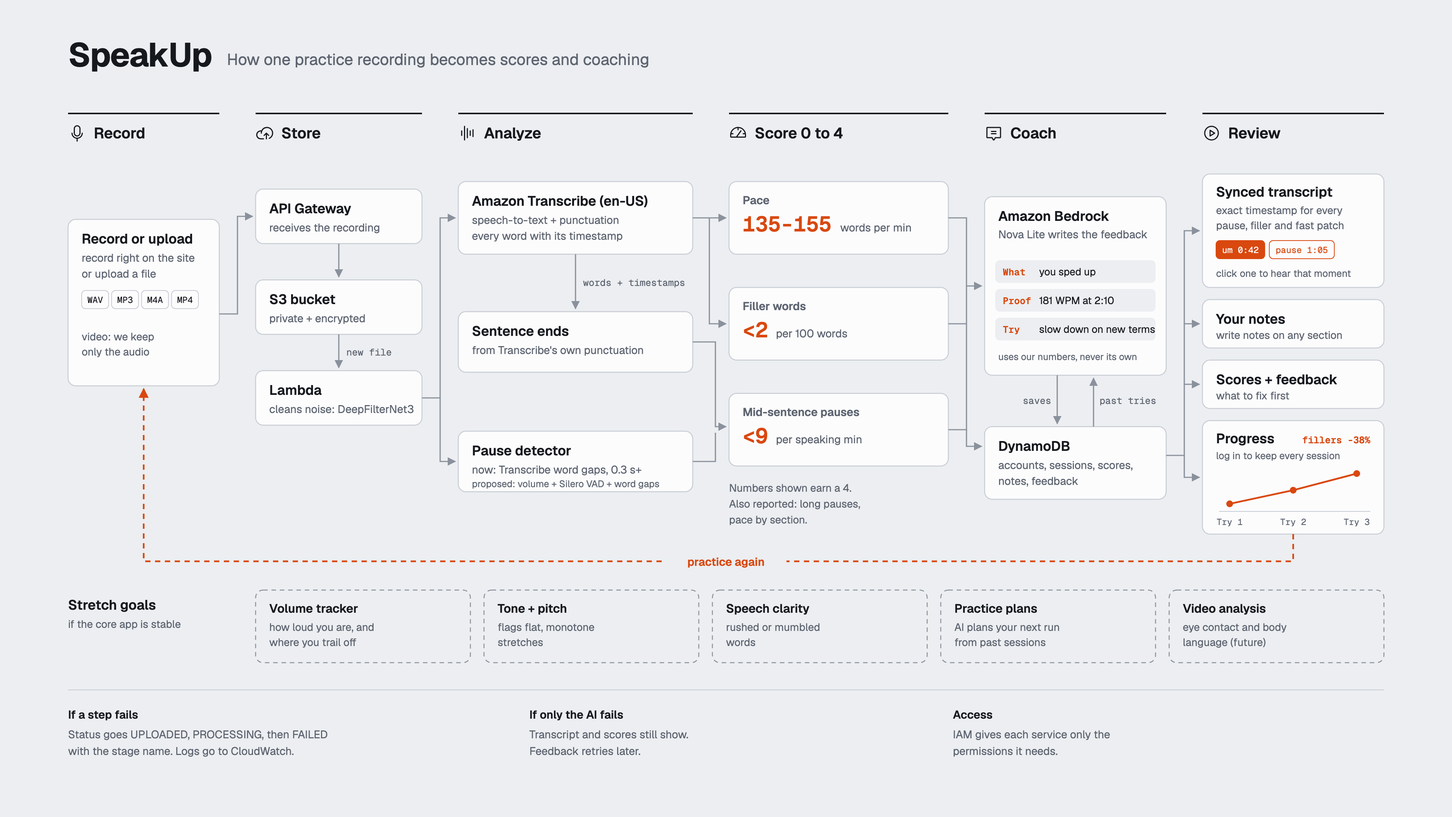
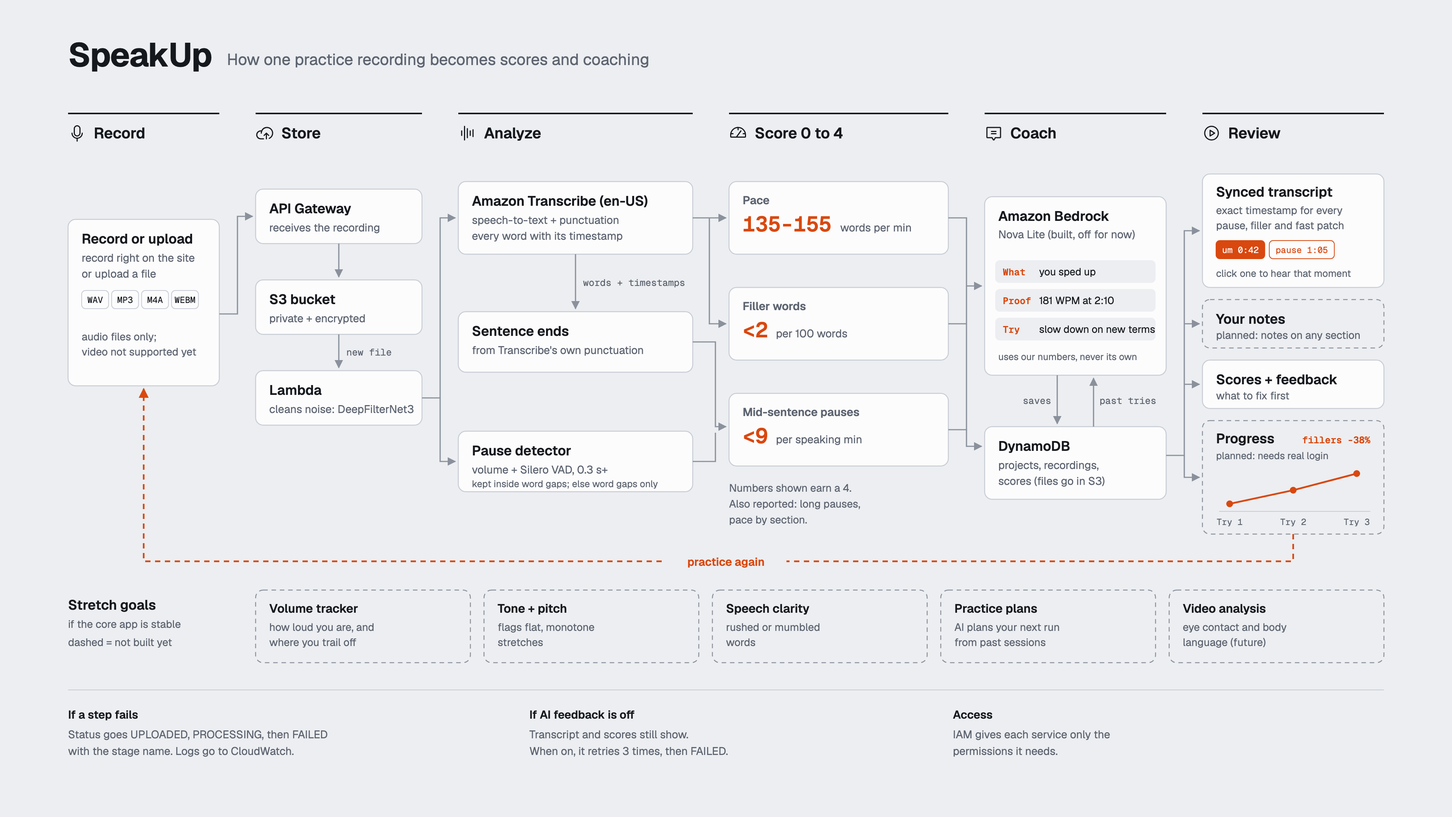
docs(flowchart): match the pipeline that is on main now
- Pause detector: volume + Silero VAD inside word gaps, word-gap fallback
- Bedrock: built but off on the dev stack; failure note matches the retries
- Upload formats: WAV, MP3, M4A, WebM (no video yet)
- DynamoDB holds projects, recordings and scores; files live in S3
- Notes and logged-in progress marked as planned (dashed)

diff --git a/docs/flowchart/speakup_flowchart.html b/docs/flowchart/speakup_flowchart.html
@@ -3,7 +3,7 @@
 <link href="https://fonts.googleapis.com/css2?family=Geist:wght@400;600;700&family=Geist+Mono:wght@400;600&display=swap" rel="stylesheet">
 <style>html,body{margin:0;background:#eceef1} svg{display:block;width:100%;height:auto}</style>
 </head><body><svg xmlns="http://www.w3.org/2000/svg" viewBox="0 0 1920 1080" role="img"
- aria-label="SpeakUp system: a recording is recorded on the site or uploaded through API Gateway into S3, Lambda cleans noise with DeepFilterNet3 and sends audio to Amazon Transcribe (words, timestamps and punctuation) and a pause detector (Transcribe word gaps now, volume plus Silero VAD proposed), three metrics are scored 0 to 4, Amazon Bedrock (Amazon Nova Lite) writes feedback, results are saved in DynamoDB and shown as a synced transcript, scores and progress, the student can add notes and track progress after logging in, and practices again. Stretch goals: volume, tone, clarity, practice plans, video.">
+ aria-label="SpeakUp system: a recording is recorded on the site or uploaded through API Gateway into S3, Lambda cleans noise with DeepFilterNet3 and sends audio to Amazon Transcribe (words, timestamps and punctuation) and a pause detector (volume plus Silero VAD inside transcript word gaps, falling back to word gaps), three metrics are scored 0 to 4, Amazon Bedrock (Amazon Nova Lite) writes feedback when it is turned on, results are saved in DynamoDB and S3 and shown as a synced transcript, scores and progress, notes and logged-in progress are planned, and the student practices again. Stretch goals: volume, tone, clarity, practice plans, video.">
 <defs>
   <marker id="ah" viewBox="0 0 10 10" refX="9" refY="5" markerWidth="7" markerHeight="7" orient="auto-start-reverse"><path d="M0,0 L10,5 L0,10 z" fill="#8a919c"/></marker>
   <marker id="ah-accent" viewBox="0 0 10 10" refX="9" refY="5" markerWidth="6" markerHeight="6" orient="auto-start-reverse"><path d="M0,0 L10,5 L0,10 z" fill="#d9480f"/></marker>
@@ -11,5 +11,5 @@
 <rect width="1920" height="1080" fill="#eceef1"/>
 <text x="90" y="88" font-family="Geist" font-size="44" font-weight="700" fill="#15181d" letter-spacing="-1">SpeakUp</text>
 <text x="300" y="86" font-family="Geist" font-size="21" fill="#5d6470">How one practice recording becomes scores and coaching</text>
-<line x1="90" y1="150" x2="290" y2="150" stroke="#15181d" stroke-width="2"/><svg x="90" y="164" width="24" height="24" viewBox="0 0 256 256" fill="#15181d"><path d="M128,176a48.05,48.05,0,0,0,48-48V64a48,48,0,0,0-96,0v64A48.05,48.05,0,0,0,128,176ZM96,64a32,32,0,0,1,64,0v64a32,32,0,0,1-64,0Zm40,143.6V240a8,8,0,0,1-16,0V207.6A80.11,80.11,0,0,1,48,128a8,8,0,0,1,16,0,64,64,0,0,0,128,0,8,8,0,0,1,16,0A80.11,80.11,0,0,1,136,207.6Z"/></svg><text x="124" y="183" font-family="Geist" font-size="20" font-weight="600" fill="#15181d" text-anchor="start">Record</text><line x1="338" y1="150" x2="558" y2="150" stroke="#15181d" stroke-width="2"/><svg x="338" y="164" width="24" height="24" viewBox="0 0 256 256" fill="#15181d"><path d="M178.34,165.66,160,147.31V208a8,8,0,0,1-16,0V147.31l-18.34,18.35a8,8,0,0,1-11.32-11.32l32-32a8,8,0,0,1,11.32,0l32,32a8,8,0,0,1-11.32,11.32ZM160,40A88.08,88.08,0,0,0,81.29,88.68,64,64,0,1,0,72,216h40a8,8,0,0,0,0-16H72a48,48,0,0,1,0-96c1.1,0,2.2,0,3.29.12A88,88,0,0,0,72,128a8,8,0,0,0,16,0,72,72,0,1,1,100.8,66,8,8,0,0,0,3.2,15.34,7.9,7.9,0,0,0,3.2-.68A88,88,0,0,0,160,40Z"/></svg><text x="372" y="183" font-family="Geist" font-size="20" font-weight="600" fill="#15181d" text-anchor="start">Store</text><line x1="606" y1="150" x2="916" y2="150" stroke="#15181d" stroke-width="2"/><svg x="606" y="164" width="24" height="24" viewBox="0 0 256 256" fill="#15181d"><path d="M56,96v64a8,8,0,0,1-16,0V96a8,8,0,0,1,16,0ZM88,24a8,8,0,0,0-8,8V224a8,8,0,0,0,16,0V32A8,8,0,0,0,88,24Zm40,32a8,8,0,0,0-8,8V192a8,8,0,0,0,16,0V64A8,8,0,0,0,128,56Zm40,32a8,8,0,0,0-8,8v64a8,8,0,0,0,16,0V96A8,8,0,0,0,168,88Zm40-16a8,8,0,0,0-8,8v96a8,8,0,0,0,16,0V80A8,8,0,0,0,208,72Z"/></svg><text x="640" y="183" font-family="Geist" font-size="20" font-weight="600" fill="#15181d" text-anchor="start">Analyze</text><line x1="964" y1="150" x2="1254" y2="150" stroke="#15181d" stroke-width="2"/><svg x="964" y="164" width="24" height="24" viewBox="0 0 256 256" fill="#15181d"><path d="M207.06,72.67A111.24,111.24,0,0,0,128,40h-.4C66.07,40.21,16,91,16,153.13V176a16,16,0,0,0,16,16H224a16,16,0,0,0,16-16V152A111.25,111.25,0,0,0,207.06,72.67ZM224,176H119.71l54.76-75.3a8,8,0,0,0-12.94-9.42L99.92,176H32V153.13c0-3.08.15-6.12.43-9.13H56a8,8,0,0,0,0-16H35.27c10.32-38.86,44-68.24,84.73-71.66V80a8,8,0,0,0,16,0V56.33A96.14,96.14,0,0,1,221,128H200a8,8,0,0,0,0,16h23.67c.21,2.65.33,5.31.33,8Z"/></svg><text x="998" y="183" font-family="Geist" font-size="20" font-weight="600" fill="#15181d" text-anchor="start">Score 0 to 4</text><line x1="1302" y1="150" x2="1542" y2="150" stroke="#15181d" stroke-width="2"/><svg x="1302" y="164" width="24" height="24" viewBox="0 0 256 256" fill="#15181d"><path d="M88,104a8,8,0,0,1,8-8h64a8,8,0,0,1,0,16H96A8,8,0,0,1,88,104Zm8,40h64a8,8,0,0,0,0-16H96a8,8,0,0,0,0,16ZM232,56V184a16,16,0,0,1-16,16H155.57l-13.68,23.94a16,16,0,0,1-27.78,0L100.43,200H40a16,16,0,0,1-16-16V56A16,16,0,0,1,40,40H216A16,16,0,0,1,232,56Zm-16,0H40V184h65.07a8,8,0,0,1,7,4l16,28,16-28a8,8,0,0,1,7-4H216Z"/></svg><text x="1336" y="183" font-family="Geist" font-size="20" font-weight="600" fill="#15181d" text-anchor="start">Coach</text><line x1="1590" y1="150" x2="1830" y2="150" stroke="#15181d" stroke-width="2"/><svg x="1590" y="164" width="24" height="24" viewBox="0 0 256 256" fill="#15181d"><path d="M128,24A104,104,0,1,0,232,128,104.11,104.11,0,0,0,128,24Zm0,192a88,88,0,1,1,88-88A88.1,88.1,0,0,1,128,216Zm48.24-94.78-64-40A8,8,0,0,0,100,88v80a8,8,0,0,0,12.24,6.78l64-40a8,8,0,0,0,0-13.56ZM116,153.57V102.43L156.91,128Z"/></svg><text x="1624" y="183" font-family="Geist" font-size="20" font-weight="600" fill="#15181d" text-anchor="start">Review</text><rect x="90" y="290" width="200" height="220" rx="10" fill="#fcfcfd" stroke="#c7ccd4" stroke-width="1.25"/><text x="108" y="322" font-family="Geist" font-size="18" font-weight="600" fill="#15181d" text-anchor="start">Record or upload</text><text x="108" y="346" font-family="Geist" font-size="14.5" font-weight="400" fill="#5d6470" text-anchor="start">record right on the site</text><text x="108" y="367" font-family="Geist" font-size="14.5" font-weight="400" fill="#5d6470" text-anchor="start">or upload a file</text><rect x="108" y="384" width="35.6" height="24" rx="5" fill="none" stroke="#c7ccd4"/><text x="125.8" y="400.5" font-family="Geist Mono" font-size="11.5" font-weight="400" fill="#15181d" text-anchor="middle">WAV</text><rect x="147.6" y="384" width="35.6" height="24" rx="5" fill="none" stroke="#c7ccd4"/><text x="165.4" y="400.5" font-family="Geist Mono" font-size="11.5" font-weight="400" fill="#15181d" text-anchor="middle">MP3</text><rect x="187.2" y="384" width="35.6" height="24" rx="5" fill="none" stroke="#c7ccd4"/><text x="205.0" y="400.5" font-family="Geist Mono" font-size="11.5" font-weight="400" fill="#15181d" text-anchor="middle">M4A</text><rect x="226.79999999999998" y="384" width="35.6" height="24" rx="5" fill="none" stroke="#c7ccd4"/><text x="244.6" y="400.5" font-family="Geist Mono" font-size="11.5" font-weight="400" fill="#15181d" text-anchor="middle">MP4</text><text x="108" y="450" font-family="Geist" font-size="14" font-weight="400" fill="#5d6470" text-anchor="start">video: we keep</text><text x="108" y="470" font-family="Geist" font-size="14" font-weight="400" fill="#5d6470" text-anchor="start">only the audio</text><rect x="338" y="250" width="220" height="72" rx="10" fill="#fcfcfd" stroke="#c7ccd4" stroke-width="1.25"/><text x="356" y="282" font-family="Geist" font-size="18" font-weight="600" fill="#15181d" text-anchor="start">API Gateway</text><text x="356" y="306" font-family="Geist" font-size="14.5" font-weight="400" fill="#5d6470" text-anchor="start">receives the recording</text><rect x="338" y="370" width="220" height="72" rx="10" fill="#fcfcfd" stroke="#c7ccd4" stroke-width="1.25"/><text x="356" y="402" font-family="Geist" font-size="18" font-weight="600" fill="#15181d" text-anchor="start">S3 bucket</text><text x="356" y="426" font-family="Geist" font-size="14.5" font-weight="400" fill="#5d6470" text-anchor="start">private + encrypted</text><rect x="338" y="490" width="220" height="72" rx="10" fill="#fcfcfd" stroke="#c7ccd4" stroke-width="1.25"/><text x="356" y="522" font-family="Geist" font-size="18" font-weight="600" fill="#15181d" text-anchor="start">Lambda</text><text x="356" y="546" font-family="Geist" font-size="14.5" font-weight="400" fill="#5d6470" text-anchor="start">cleans noise: DeepFilterNet3</text><path d="M290,415 L314,415 L314,286 L334,286" fill="none" stroke="#8a919c" stroke-width="1.6" marker-end="url(#ah)"/><path d="M448,322 L448,366" fill="none" stroke="#8a919c" stroke-width="1.6" marker-end="url(#ah)"/><path d="M448,442 L448,486" fill="none" stroke="#8a919c" stroke-width="1.6" marker-end="url(#ah)"/><text x="458" y="470" font-family="Geist Mono" font-size="12.5" font-weight="400" fill="#5d6470" text-anchor="start">new file</text><rect x="606" y="240" width="310" height="96" rx="10" fill="#fcfcfd" stroke="#c7ccd4" stroke-width="1.25"/><text x="624" y="272" font-family="Geist" font-size="18" font-weight="600" fill="#15181d" text-anchor="start">Amazon Transcribe (en-US)</text><text x="624" y="296" font-family="Geist" font-size="14.5" font-weight="400" fill="#5d6470" text-anchor="start">speech-to-text + punctuation</text><text x="624" y="317" font-family="Geist" font-size="14.5" font-weight="400" fill="#5d6470" text-anchor="start">every word with its timestamp</text><rect x="606" y="412" width="310" height="80" rx="10" fill="#fcfcfd" stroke="#c7ccd4" stroke-width="1.25"/><text x="624" y="444" font-family="Geist" font-size="18" font-weight="600" fill="#15181d" text-anchor="start">Sentence ends</text><text x="624" y="468" font-family="Geist" font-size="14.5" font-weight="400" fill="#5d6470" text-anchor="start">from Transcribe's own punctuation</text><rect x="606" y="570" width="310" height="80" rx="10" fill="#fcfcfd" stroke="#c7ccd4" stroke-width="1.25"/><text x="624" y="602" font-family="Geist" font-size="18" font-weight="600" fill="#15181d" text-anchor="start">Pause detector</text><text x="624" y="626" font-family="Geist" font-size="14.5" font-weight="400" fill="#5d6470" text-anchor="start">now: Transcribe word gaps, 0.3 s+</text><text x="624" y="644" font-family="Geist" font-size="12.5" font-weight="400" fill="#5d6470" text-anchor="start">proposed: volume + Silero VAD + word gaps</text><path d="M558,526 L582,526 L582,288 L602,288" fill="none" stroke="#8a919c" stroke-width="1.6" marker-end="url(#ah)"/><path d="M582,526 L582,610 L602,610" fill="none" stroke="#8a919c" stroke-width="1.6" marker-end="url(#ah)"/><path d="M761,336 L761,408" fill="none" stroke="#8a919c" stroke-width="1.6" marker-end="url(#ah)"/><text x="771" y="378" font-family="Geist Mono" font-size="12.5" font-weight="400" fill="#5d6470" text-anchor="start">words + timestamps</text><rect x="964" y="240" width="290" height="96" rx="10" fill="#fcfcfd" stroke="#c7ccd4" stroke-width="1.25"/><text x="982" y="270" font-family="Geist" font-size="15" font-weight="600" fill="#5d6470" text-anchor="start">Pace</text><text x="982" y="306" font-family="Geist Mono" font-size="28" font-weight="600" fill="#d9480f" text-anchor="start">135-155</text><text x="1111" y="306" font-family="Geist" font-size="14.5" font-weight="400" fill="#5d6470" text-anchor="start">words per min</text><rect x="964" y="380" width="290" height="96" rx="10" fill="#fcfcfd" stroke="#c7ccd4" stroke-width="1.25"/><text x="982" y="410" font-family="Geist" font-size="15" font-weight="600" fill="#5d6470" text-anchor="start">Filler words</text><text x="982" y="446" font-family="Geist Mono" font-size="28" font-weight="600" fill="#d9480f" text-anchor="start">&lt;2</text><text x="1026" y="446" font-family="Geist" font-size="14.5" font-weight="400" fill="#5d6470" text-anchor="start">per 100 words</text><rect x="964" y="520" width="290" height="96" rx="10" fill="#fcfcfd" stroke="#c7ccd4" stroke-width="1.25"/><text x="982" y="550" font-family="Geist" font-size="15" font-weight="600" fill="#5d6470" text-anchor="start">Mid-sentence pauses</text><text x="982" y="586" font-family="Geist Mono" font-size="28" font-weight="600" fill="#d9480f" text-anchor="start">&lt;9</text><text x="1026" y="586" font-family="Geist" font-size="14.5" font-weight="400" fill="#5d6470" text-anchor="start">per speaking min</text><text x="964" y="650" font-family="Geist" font-size="14" font-weight="400" fill="#5d6470" text-anchor="start">Numbers shown earn a 4.</text><text x="964" y="671" font-family="Geist" font-size="14" font-weight="400" fill="#5d6470" text-anchor="start">Also reported: long pauses,</text><text x="964" y="692" font-family="Geist" font-size="14" font-weight="400" fill="#5d6470" text-anchor="start">pace by section.</text><path d="M916,288 L960,288" fill="none" stroke="#8a919c" stroke-width="1.6" marker-end="url(#ah)"/><path d="M938,288 L938,428 L960,428" fill="none" stroke="#8a919c" stroke-width="1.6" marker-end="url(#ah)"/><path d="M916,452 L946,452 L946,564 L960,564" fill="none" stroke="#8a919c" stroke-width="1.6" marker-end="url(#ah)"/><path d="M916,610 L946,610 L946,572" fill="none" stroke="#8a919c" stroke-width="1.6"/><rect x="1302" y="260" width="240" height="236" rx="10" fill="#fcfcfd" stroke="#c7ccd4" stroke-width="1.25"/><text x="1320" y="292" font-family="Geist" font-size="18" font-weight="600" fill="#15181d" text-anchor="start">Amazon Bedrock</text><text x="1320" y="315" font-family="Geist" font-size="14.5" font-weight="400" fill="#5d6470" text-anchor="start">Nova Lite writes the feedback</text><rect x="1316" y="344" width="212" height="30" rx="6" fill="#eceef1"/><text x="1326" y="364" font-family="Geist Mono" font-size="12.5" font-weight="600" fill="#d9480f" text-anchor="start">What</text><text x="1374" y="364" font-family="Geist" font-size="13.5" font-weight="400" fill="#15181d" text-anchor="start">you sped up</text><rect x="1316" y="382" width="212" height="30" rx="6" fill="#eceef1"/><text x="1326" y="402" font-family="Geist Mono" font-size="12.5" font-weight="600" fill="#d9480f" text-anchor="start">Proof</text><text x="1374" y="402" font-family="Geist" font-size="13.5" font-weight="400" fill="#15181d" text-anchor="start">181 WPM at 2:10</text><rect x="1316" y="420" width="212" height="30" rx="6" fill="#eceef1"/><text x="1326" y="440" font-family="Geist Mono" font-size="12.5" font-weight="600" fill="#d9480f" text-anchor="start">Try</text><text x="1374" y="440" font-family="Geist" font-size="13.5" font-weight="400" fill="#15181d" text-anchor="start">slow down on new terms</text><text x="1320" y="476" font-family="Geist" font-size="12.5" font-weight="400" fill="#5d6470" text-anchor="start">uses our numbers, never its own</text><rect x="1302" y="564" width="240" height="96" rx="10" fill="#fcfcfd" stroke="#c7ccd4" stroke-width="1.25"/><text x="1320" y="596" font-family="Geist" font-size="18" font-weight="600" fill="#15181d" text-anchor="start">DynamoDB</text><text x="1320" y="620" font-family="Geist" font-size="14.5" font-weight="400" fill="#5d6470" text-anchor="start">accounts, sessions, scores,</text><text x="1320" y="641" font-family="Geist" font-size="14.5" font-weight="400" fill="#5d6470" text-anchor="start">notes, feedback</text><path d="M1254,288 L1278,288 L1278,568 L1254,568" fill="none" stroke="#8a919c" stroke-width="1.6"/><path d="M1254,428 L1278,428" fill="none" stroke="#8a919c" stroke-width="1.6"/><path d="M1278,378 L1298,378" fill="none" stroke="#8a919c" stroke-width="1.6" marker-end="url(#ah)"/><path d="M1398,496 L1398,560" fill="none" stroke="#8a919c" stroke-width="1.6" marker-end="url(#ah)"/><path d="M1446,564 L1446,500" fill="none" stroke="#8a919c" stroke-width="1.6" marker-end="url(#ah)"/><text x="1390" y="534" font-family="Geist Mono" font-size="12.5" font-weight="400" fill="#5d6470" text-anchor="end">saves</text><text x="1454" y="534" font-family="Geist Mono" font-size="12.5" font-weight="400" fill="#5d6470" text-anchor="start">past tries</text><path d="M1278,568 L1278,590 L1298,590" fill="none" stroke="#8a919c" stroke-width="1.6" marker-end="url(#ah)"/><rect x="1590" y="230" width="240" height="150" rx="10" fill="#fcfcfd" stroke="#c7ccd4" stroke-width="1.25"/><text x="1608" y="260" font-family="Geist" font-size="18" font-weight="600" fill="#15181d" text-anchor="start">Synced transcript</text><text x="1608" y="283" font-family="Geist" font-size="14" font-weight="400" fill="#5d6470" text-anchor="start">exact timestamp for every</text><text x="1608" y="303" font-family="Geist" font-size="14" font-weight="400" fill="#5d6470" text-anchor="start">pause, filler and fast patch</text><rect x="1608" y="318" width="64.4" height="24" rx="5" fill="#d9480f" stroke="#d9480f"/><text x="1640.2" y="334.5" font-family="Geist Mono" font-size="11.5" font-weight="400" fill="#fff" text-anchor="middle">um 0:42</text><rect x="1678.4" y="318" width="86.0" height="24" rx="5" fill="none" stroke="#d9480f"/><text x="1721.4" y="334.5" font-family="Geist Mono" font-size="11.5" font-weight="400" fill="#d9480f" text-anchor="middle">pause 1:05</text><text x="1608" y="366" font-family="Geist" font-size="13" font-weight="400" fill="#5d6470" text-anchor="start">click one to hear that moment</text><rect x="1590" y="396" width="240" height="64" rx="10" fill="#fcfcfd" stroke="#c7ccd4" stroke-width="1.25"/><text x="1608" y="428" font-family="Geist" font-size="18" font-weight="600" fill="#15181d" text-anchor="start">Your notes</text><text x="1608" y="448" font-family="Geist" font-size="14" font-weight="400" fill="#5d6470" text-anchor="start">write notes on any section</text><rect x="1590" y="476" width="240" height="64" rx="10" fill="#fcfcfd" stroke="#c7ccd4" stroke-width="1.25"/><text x="1608" y="508" font-family="Geist" font-size="18" font-weight="600" fill="#15181d" text-anchor="start">Scores + feedback</text><text x="1608" y="528" font-family="Geist" font-size="14" font-weight="400" fill="#5d6470" text-anchor="start">what to fix first</text><rect x="1590" y="556" width="240" height="150" rx="10" fill="#fcfcfd" stroke="#c7ccd4" stroke-width="1.25"/><text x="1608" y="586" font-family="Geist" font-size="18" font-weight="600" fill="#15181d" text-anchor="start">Progress</text><text x="1812" y="586" font-family="Geist Mono" font-size="12.5" font-weight="600" fill="#d9480f" text-anchor="end">fillers -38%</text><text x="1608" y="607" font-family="Geist" font-size="13" font-weight="400" fill="#5d6470" text-anchor="start">log in to keep every session</text><line x1="1612" y1="676" x2="1812" y2="676" stroke="#c7ccd4"/><polyline points="1626,666 1710,648 1794,626" fill="none" stroke="#d9480f" stroke-width="2.4"/><circle cx="1626" cy="666" r="4.5" fill="#d9480f"/><text x="1626" y="694" font-family="Geist Mono" font-size="11.5" font-weight="400" fill="#5d6470" text-anchor="middle">Try 1</text><circle cx="1710" cy="648" r="4.5" fill="#d9480f"/><text x="1710" y="694" font-family="Geist Mono" font-size="11.5" font-weight="400" fill="#5d6470" text-anchor="middle">Try 2</text><circle cx="1794" cy="626" r="4.5" fill="#d9480f"/><text x="1794" y="694" font-family="Geist Mono" font-size="11.5" font-weight="400" fill="#5d6470" text-anchor="middle">Try 3</text><path d="M1542,602 L1566,602 L1566,305 L1586,305" fill="none" stroke="#8a919c" stroke-width="1.6" marker-end="url(#ah)"/><path d="M1566,428 L1586,428" fill="none" stroke="#8a919c" stroke-width="1.6" marker-end="url(#ah)"/><path d="M1566,508 L1586,508" fill="none" stroke="#8a919c" stroke-width="1.6" marker-end="url(#ah)"/><path d="M1566,602 L1566,631 L1586,631" fill="none" stroke="#8a919c" stroke-width="1.6" marker-end="url(#ah)"/><path d="M1710,706 L1710,742 L190,742 L190,514" fill="none" stroke="#d9480f" stroke-width="2.2" stroke-dasharray="7 6" marker-end="url(#ah-accent)"/><rect x="880" y="726" width="160" height="32" rx="16" fill="#eceef1"/><text x="960" y="748" font-family="Geist" font-size="15" font-weight="600" fill="#d9480f" text-anchor="middle">practice again</text><text x="90" y="806" font-family="Geist" font-size="18" font-weight="600" fill="#15181d" text-anchor="start">Stretch goals</text><text x="90" y="830" font-family="Geist" font-size="14" font-weight="400" fill="#5d6470" text-anchor="start">if the core app is stable</text><rect x="338" y="780" width="284" height="96" rx="10" fill="none" stroke="#8a919c" stroke-width="1.25" stroke-dasharray="6 5"/><text x="356" y="810" font-family="Geist" font-size="16" font-weight="600" fill="#15181d" text-anchor="start">Volume tracker</text><text x="356" y="834" font-family="Geist" font-size="14" font-weight="400" fill="#5d6470" text-anchor="start">how loud you are, and</text><text x="356" y="854" font-family="Geist" font-size="14" font-weight="400" fill="#5d6470" text-anchor="start">where you trail off</text><rect x="640" y="780" width="284" height="96" rx="10" fill="none" stroke="#8a919c" stroke-width="1.25" stroke-dasharray="6 5"/><text x="658" y="810" font-family="Geist" font-size="16" font-weight="600" fill="#15181d" text-anchor="start">Tone + pitch</text><text x="658" y="834" font-family="Geist" font-size="14" font-weight="400" fill="#5d6470" text-anchor="start">flags flat, monotone</text><text x="658" y="854" font-family="Geist" font-size="14" font-weight="400" fill="#5d6470" text-anchor="start">stretches</text><rect x="942" y="780" width="284" height="96" rx="10" fill="none" stroke="#8a919c" stroke-width="1.25" stroke-dasharray="6 5"/><text x="960" y="810" font-family="Geist" font-size="16" font-weight="600" fill="#15181d" text-anchor="start">Speech clarity</text><text x="960" y="834" font-family="Geist" font-size="14" font-weight="400" fill="#5d6470" text-anchor="start">rushed or mumbled</text><text x="960" y="854" font-family="Geist" font-size="14" font-weight="400" fill="#5d6470" text-anchor="start">words</text><rect x="1244" y="780" width="284" height="96" rx="10" fill="none" stroke="#8a919c" stroke-width="1.25" stroke-dasharray="6 5"/><text x="1262" y="810" font-family="Geist" font-size="16" font-weight="600" fill="#15181d" text-anchor="start">Practice plans</text><text x="1262" y="834" font-family="Geist" font-size="14" font-weight="400" fill="#5d6470" text-anchor="start">AI plans your next run</text><text x="1262" y="854" font-family="Geist" font-size="14" font-weight="400" fill="#5d6470" text-anchor="start">from past sessions</text><rect x="1546" y="780" width="284" height="96" rx="10" fill="none" stroke="#8a919c" stroke-width="1.25" stroke-dasharray="6 5"/><text x="1564" y="810" font-family="Geist" font-size="16" font-weight="600" fill="#15181d" text-anchor="start">Video analysis</text><text x="1564" y="834" font-family="Geist" font-size="14" font-weight="400" fill="#5d6470" text-anchor="start">eye contact and body</text><text x="1564" y="854" font-family="Geist" font-size="14" font-weight="400" fill="#5d6470" text-anchor="start">language (future)</text><line x1="90" y1="912" x2="1830" y2="912" stroke="#c7ccd4" stroke-width="1"/><text x="90" y="950" font-family="Geist" font-size="15" font-weight="600" fill="#15181d" text-anchor="start">If a step fails</text><text x="90" y="976" font-family="Geist" font-size="14.5" font-weight="400" fill="#5d6470" text-anchor="start">Status goes UPLOADED, PROCESSING, then FAILED</text><text x="90" y="998" font-family="Geist" font-size="14.5" font-weight="400" fill="#5d6470" text-anchor="start">with the stage name. Logs go to CloudWatch.</text><text x="700" y="950" font-family="Geist" font-size="15" font-weight="600" fill="#15181d" text-anchor="start">If only the AI fails</text><text x="700" y="976" font-family="Geist" font-size="14.5" font-weight="400" fill="#5d6470" text-anchor="start">Transcript and scores still show.</text><text x="700" y="998" font-family="Geist" font-size="14.5" font-weight="400" fill="#5d6470" text-anchor="start">Feedback retries later.</text><text x="1260" y="950" font-family="Geist" font-size="15" font-weight="600" fill="#15181d" text-anchor="start">Access</text><text x="1260" y="976" font-family="Geist" font-size="14.5" font-weight="400" fill="#5d6470" text-anchor="start">IAM gives each service only the</text><text x="1260" y="998" font-family="Geist" font-size="14.5" font-weight="400" fill="#5d6470" text-anchor="start">permissions it needs.</text>
+<line x1="90" y1="150" x2="290" y2="150" stroke="#15181d" stroke-width="2"/><svg x="90" y="164" width="24" height="24" viewBox="0 0 256 256" fill="#15181d"><path d="M128,176a48.05,48.05,0,0,0,48-48V64a48,48,0,0,0-96,0v64A48.05,48.05,0,0,0,128,176ZM96,64a32,32,0,0,1,64,0v64a32,32,0,0,1-64,0Zm40,143.6V240a8,8,0,0,1-16,0V207.6A80.11,80.11,0,0,1,48,128a8,8,0,0,1,16,0,64,64,0,0,0,128,0,8,8,0,0,1,16,0A80.11,80.11,0,0,1,136,207.6Z"/></svg><text x="124" y="183" font-family="Geist" font-size="20" font-weight="600" fill="#15181d" text-anchor="start">Record</text><line x1="338" y1="150" x2="558" y2="150" stroke="#15181d" stroke-width="2"/><svg x="338" y="164" width="24" height="24" viewBox="0 0 256 256" fill="#15181d"><path d="M178.34,165.66,160,147.31V208a8,8,0,0,1-16,0V147.31l-18.34,18.35a8,8,0,0,1-11.32-11.32l32-32a8,8,0,0,1,11.32,0l32,32a8,8,0,0,1-11.32,11.32ZM160,40A88.08,88.08,0,0,0,81.29,88.68,64,64,0,1,0,72,216h40a8,8,0,0,0,0-16H72a48,48,0,0,1,0-96c1.1,0,2.2,0,3.29.12A88,88,0,0,0,72,128a8,8,0,0,0,16,0,72,72,0,1,1,100.8,66,8,8,0,0,0,3.2,15.34,7.9,7.9,0,0,0,3.2-.68A88,88,0,0,0,160,40Z"/></svg><text x="372" y="183" font-family="Geist" font-size="20" font-weight="600" fill="#15181d" text-anchor="start">Store</text><line x1="606" y1="150" x2="916" y2="150" stroke="#15181d" stroke-width="2"/><svg x="606" y="164" width="24" height="24" viewBox="0 0 256 256" fill="#15181d"><path d="M56,96v64a8,8,0,0,1-16,0V96a8,8,0,0,1,16,0ZM88,24a8,8,0,0,0-8,8V224a8,8,0,0,0,16,0V32A8,8,0,0,0,88,24Zm40,32a8,8,0,0,0-8,8V192a8,8,0,0,0,16,0V64A8,8,0,0,0,128,56Zm40,32a8,8,0,0,0-8,8v64a8,8,0,0,0,16,0V96A8,8,0,0,0,168,88Zm40-16a8,8,0,0,0-8,8v96a8,8,0,0,0,16,0V80A8,8,0,0,0,208,72Z"/></svg><text x="640" y="183" font-family="Geist" font-size="20" font-weight="600" fill="#15181d" text-anchor="start">Analyze</text><line x1="964" y1="150" x2="1254" y2="150" stroke="#15181d" stroke-width="2"/><svg x="964" y="164" width="24" height="24" viewBox="0 0 256 256" fill="#15181d"><path d="M207.06,72.67A111.24,111.24,0,0,0,128,40h-.4C66.07,40.21,16,91,16,153.13V176a16,16,0,0,0,16,16H224a16,16,0,0,0,16-16V152A111.25,111.25,0,0,0,207.06,72.67ZM224,176H119.71l54.76-75.3a8,8,0,0,0-12.94-9.42L99.92,176H32V153.13c0-3.08.15-6.12.43-9.13H56a8,8,0,0,0,0-16H35.27c10.32-38.86,44-68.24,84.73-71.66V80a8,8,0,0,0,16,0V56.33A96.14,96.14,0,0,1,221,128H200a8,8,0,0,0,0,16h23.67c.21,2.65.33,5.31.33,8Z"/></svg><text x="998" y="183" font-family="Geist" font-size="20" font-weight="600" fill="#15181d" text-anchor="start">Score 0 to 4</text><line x1="1302" y1="150" x2="1542" y2="150" stroke="#15181d" stroke-width="2"/><svg x="1302" y="164" width="24" height="24" viewBox="0 0 256 256" fill="#15181d"><path d="M88,104a8,8,0,0,1,8-8h64a8,8,0,0,1,0,16H96A8,8,0,0,1,88,104Zm8,40h64a8,8,0,0,0,0-16H96a8,8,0,0,0,0,16ZM232,56V184a16,16,0,0,1-16,16H155.57l-13.68,23.94a16,16,0,0,1-27.78,0L100.43,200H40a16,16,0,0,1-16-16V56A16,16,0,0,1,40,40H216A16,16,0,0,1,232,56Zm-16,0H40V184h65.07a8,8,0,0,1,7,4l16,28,16-28a8,8,0,0,1,7-4H216Z"/></svg><text x="1336" y="183" font-family="Geist" font-size="20" font-weight="600" fill="#15181d" text-anchor="start">Coach</text><line x1="1590" y1="150" x2="1830" y2="150" stroke="#15181d" stroke-width="2"/><svg x="1590" y="164" width="24" height="24" viewBox="0 0 256 256" fill="#15181d"><path d="M128,24A104,104,0,1,0,232,128,104.11,104.11,0,0,0,128,24Zm0,192a88,88,0,1,1,88-88A88.1,88.1,0,0,1,128,216Zm48.24-94.78-64-40A8,8,0,0,0,100,88v80a8,8,0,0,0,12.24,6.78l64-40a8,8,0,0,0,0-13.56ZM116,153.57V102.43L156.91,128Z"/></svg><text x="1624" y="183" font-family="Geist" font-size="20" font-weight="600" fill="#15181d" text-anchor="start">Review</text><rect x="90" y="290" width="200" height="220" rx="10" fill="#fcfcfd" stroke="#c7ccd4" stroke-width="1.25"/><text x="108" y="322" font-family="Geist" font-size="18" font-weight="600" fill="#15181d" text-anchor="start">Record or upload</text><text x="108" y="346" font-family="Geist" font-size="14.5" font-weight="400" fill="#5d6470" text-anchor="start">record right on the site</text><text x="108" y="367" font-family="Geist" font-size="14.5" font-weight="400" fill="#5d6470" text-anchor="start">or upload a file</text><rect x="108" y="384" width="35.6" height="24" rx="5" fill="none" stroke="#c7ccd4"/><text x="125.8" y="400.5" font-family="Geist Mono" font-size="11.5" font-weight="400" fill="#15181d" text-anchor="middle">WAV</text><rect x="147.6" y="384" width="35.6" height="24" rx="5" fill="none" stroke="#c7ccd4"/><text x="165.4" y="400.5" font-family="Geist Mono" font-size="11.5" font-weight="400" fill="#15181d" text-anchor="middle">MP3</text><rect x="187.2" y="384" width="35.6" height="24" rx="5" fill="none" stroke="#c7ccd4"/><text x="205.0" y="400.5" font-family="Geist Mono" font-size="11.5" font-weight="400" fill="#15181d" text-anchor="middle">M4A</text><rect x="226.79999999999998" y="384" width="35.6" height="24" rx="5" fill="none" stroke="#c7ccd4"/><text x="244.6" y="400.5" font-family="Geist Mono" font-size="11.5" font-weight="400" fill="#15181d" text-anchor="middle">WEBM</text><text x="108" y="450" font-family="Geist" font-size="14" font-weight="400" fill="#5d6470" text-anchor="start">audio files only;</text><text x="108" y="470" font-family="Geist" font-size="14" font-weight="400" fill="#5d6470" text-anchor="start">video not supported yet</text><rect x="338" y="250" width="220" height="72" rx="10" fill="#fcfcfd" stroke="#c7ccd4" stroke-width="1.25"/><text x="356" y="282" font-family="Geist" font-size="18" font-weight="600" fill="#15181d" text-anchor="start">API Gateway</text><text x="356" y="306" font-family="Geist" font-size="14.5" font-weight="400" fill="#5d6470" text-anchor="start">receives the recording</text><rect x="338" y="370" width="220" height="72" rx="10" fill="#fcfcfd" stroke="#c7ccd4" stroke-width="1.25"/><text x="356" y="402" font-family="Geist" font-size="18" font-weight="600" fill="#15181d" text-anchor="start">S3 bucket</text><text x="356" y="426" font-family="Geist" font-size="14.5" font-weight="400" fill="#5d6470" text-anchor="start">private + encrypted</text><rect x="338" y="490" width="220" height="72" rx="10" fill="#fcfcfd" stroke="#c7ccd4" stroke-width="1.25"/><text x="356" y="522" font-family="Geist" font-size="18" font-weight="600" fill="#15181d" text-anchor="start">Lambda</text><text x="356" y="546" font-family="Geist" font-size="14.5" font-weight="400" fill="#5d6470" text-anchor="start">cleans noise: DeepFilterNet3</text><path d="M290,415 L314,415 L314,286 L334,286" fill="none" stroke="#8a919c" stroke-width="1.6" marker-end="url(#ah)"/><path d="M448,322 L448,366" fill="none" stroke="#8a919c" stroke-width="1.6" marker-end="url(#ah)"/><path d="M448,442 L448,486" fill="none" stroke="#8a919c" stroke-width="1.6" marker-end="url(#ah)"/><text x="458" y="470" font-family="Geist Mono" font-size="12.5" font-weight="400" fill="#5d6470" text-anchor="start">new file</text><rect x="606" y="240" width="310" height="96" rx="10" fill="#fcfcfd" stroke="#c7ccd4" stroke-width="1.25"/><text x="624" y="272" font-family="Geist" font-size="18" font-weight="600" fill="#15181d" text-anchor="start">Amazon Transcribe (en-US)</text><text x="624" y="296" font-family="Geist" font-size="14.5" font-weight="400" fill="#5d6470" text-anchor="start">speech-to-text + punctuation</text><text x="624" y="317" font-family="Geist" font-size="14.5" font-weight="400" fill="#5d6470" text-anchor="start">every word with its timestamp</text><rect x="606" y="412" width="310" height="80" rx="10" fill="#fcfcfd" stroke="#c7ccd4" stroke-width="1.25"/><text x="624" y="444" font-family="Geist" font-size="18" font-weight="600" fill="#15181d" text-anchor="start">Sentence ends</text><text x="624" y="468" font-family="Geist" font-size="14.5" font-weight="400" fill="#5d6470" text-anchor="start">from Transcribe's own punctuation</text><rect x="606" y="570" width="310" height="80" rx="10" fill="#fcfcfd" stroke="#c7ccd4" stroke-width="1.25"/><text x="624" y="602" font-family="Geist" font-size="18" font-weight="600" fill="#15181d" text-anchor="start">Pause detector</text><text x="624" y="626" font-family="Geist" font-size="14.5" font-weight="400" fill="#5d6470" text-anchor="start">volume + Silero VAD, 0.3 s+</text><text x="624" y="644" font-family="Geist" font-size="12.5" font-weight="400" fill="#5d6470" text-anchor="start">kept inside word gaps; else word gaps only</text><path d="M558,526 L582,526 L582,288 L602,288" fill="none" stroke="#8a919c" stroke-width="1.6" marker-end="url(#ah)"/><path d="M582,526 L582,610 L602,610" fill="none" stroke="#8a919c" stroke-width="1.6" marker-end="url(#ah)"/><path d="M761,336 L761,408" fill="none" stroke="#8a919c" stroke-width="1.6" marker-end="url(#ah)"/><text x="771" y="378" font-family="Geist Mono" font-size="12.5" font-weight="400" fill="#5d6470" text-anchor="start">words + timestamps</text><rect x="964" y="240" width="290" height="96" rx="10" fill="#fcfcfd" stroke="#c7ccd4" stroke-width="1.25"/><text x="982" y="270" font-family="Geist" font-size="15" font-weight="600" fill="#5d6470" text-anchor="start">Pace</text><text x="982" y="306" font-family="Geist Mono" font-size="28" font-weight="600" fill="#d9480f" text-anchor="start">135-155</text><text x="1111" y="306" font-family="Geist" font-size="14.5" font-weight="400" fill="#5d6470" text-anchor="start">words per min</text><rect x="964" y="380" width="290" height="96" rx="10" fill="#fcfcfd" stroke="#c7ccd4" stroke-width="1.25"/><text x="982" y="410" font-family="Geist" font-size="15" font-weight="600" fill="#5d6470" text-anchor="start">Filler words</text><text x="982" y="446" font-family="Geist Mono" font-size="28" font-weight="600" fill="#d9480f" text-anchor="start">&lt;2</text><text x="1026" y="446" font-family="Geist" font-size="14.5" font-weight="400" fill="#5d6470" text-anchor="start">per 100 words</text><rect x="964" y="520" width="290" height="96" rx="10" fill="#fcfcfd" stroke="#c7ccd4" stroke-width="1.25"/><text x="982" y="550" font-family="Geist" font-size="15" font-weight="600" fill="#5d6470" text-anchor="start">Mid-sentence pauses</text><text x="982" y="586" font-family="Geist Mono" font-size="28" font-weight="600" fill="#d9480f" text-anchor="start">&lt;9</text><text x="1026" y="586" font-family="Geist" font-size="14.5" font-weight="400" fill="#5d6470" text-anchor="start">per speaking min</text><text x="964" y="650" font-family="Geist" font-size="14" font-weight="400" fill="#5d6470" text-anchor="start">Numbers shown earn a 4.</text><text x="964" y="671" font-family="Geist" font-size="14" font-weight="400" fill="#5d6470" text-anchor="start">Also reported: long pauses,</text><text x="964" y="692" font-family="Geist" font-size="14" font-weight="400" fill="#5d6470" text-anchor="start">pace by section.</text><path d="M916,288 L960,288" fill="none" stroke="#8a919c" stroke-width="1.6" marker-end="url(#ah)"/><path d="M938,288 L938,428 L960,428" fill="none" stroke="#8a919c" stroke-width="1.6" marker-end="url(#ah)"/><path d="M916,452 L946,452 L946,564 L960,564" fill="none" stroke="#8a919c" stroke-width="1.6" marker-end="url(#ah)"/><path d="M916,610 L946,610 L946,572" fill="none" stroke="#8a919c" stroke-width="1.6"/><rect x="1302" y="260" width="240" height="236" rx="10" fill="#fcfcfd" stroke="#c7ccd4" stroke-width="1.25"/><text x="1320" y="292" font-family="Geist" font-size="18" font-weight="600" fill="#15181d" text-anchor="start">Amazon Bedrock</text><text x="1320" y="315" font-family="Geist" font-size="14.5" font-weight="400" fill="#5d6470" text-anchor="start">Nova Lite (built, off for now)</text><rect x="1316" y="344" width="212" height="30" rx="6" fill="#eceef1"/><text x="1326" y="364" font-family="Geist Mono" font-size="12.5" font-weight="600" fill="#d9480f" text-anchor="start">What</text><text x="1374" y="364" font-family="Geist" font-size="13.5" font-weight="400" fill="#15181d" text-anchor="start">you sped up</text><rect x="1316" y="382" width="212" height="30" rx="6" fill="#eceef1"/><text x="1326" y="402" font-family="Geist Mono" font-size="12.5" font-weight="600" fill="#d9480f" text-anchor="start">Proof</text><text x="1374" y="402" font-family="Geist" font-size="13.5" font-weight="400" fill="#15181d" text-anchor="start">181 WPM at 2:10</text><rect x="1316" y="420" width="212" height="30" rx="6" fill="#eceef1"/><text x="1326" y="440" font-family="Geist Mono" font-size="12.5" font-weight="600" fill="#d9480f" text-anchor="start">Try</text><text x="1374" y="440" font-family="Geist" font-size="13.5" font-weight="400" fill="#15181d" text-anchor="start">slow down on new terms</text><text x="1320" y="476" font-family="Geist" font-size="12.5" font-weight="400" fill="#5d6470" text-anchor="start">uses our numbers, never its own</text><rect x="1302" y="564" width="240" height="96" rx="10" fill="#fcfcfd" stroke="#c7ccd4" stroke-width="1.25"/><text x="1320" y="596" font-family="Geist" font-size="18" font-weight="600" fill="#15181d" text-anchor="start">DynamoDB</text><text x="1320" y="620" font-family="Geist" font-size="14.5" font-weight="400" fill="#5d6470" text-anchor="start">projects, recordings,</text><text x="1320" y="641" font-family="Geist" font-size="14.5" font-weight="400" fill="#5d6470" text-anchor="start">scores (files go in S3)</text><path d="M1254,288 L1278,288 L1278,568 L1254,568" fill="none" stroke="#8a919c" stroke-width="1.6"/><path d="M1254,428 L1278,428" fill="none" stroke="#8a919c" stroke-width="1.6"/><path d="M1278,378 L1298,378" fill="none" stroke="#8a919c" stroke-width="1.6" marker-end="url(#ah)"/><path d="M1398,496 L1398,560" fill="none" stroke="#8a919c" stroke-width="1.6" marker-end="url(#ah)"/><path d="M1446,564 L1446,500" fill="none" stroke="#8a919c" stroke-width="1.6" marker-end="url(#ah)"/><text x="1390" y="534" font-family="Geist Mono" font-size="12.5" font-weight="400" fill="#5d6470" text-anchor="end">saves</text><text x="1454" y="534" font-family="Geist Mono" font-size="12.5" font-weight="400" fill="#5d6470" text-anchor="start">past tries</text><path d="M1278,568 L1278,590 L1298,590" fill="none" stroke="#8a919c" stroke-width="1.6" marker-end="url(#ah)"/><rect x="1590" y="230" width="240" height="150" rx="10" fill="#fcfcfd" stroke="#c7ccd4" stroke-width="1.25"/><text x="1608" y="260" font-family="Geist" font-size="18" font-weight="600" fill="#15181d" text-anchor="start">Synced transcript</text><text x="1608" y="283" font-family="Geist" font-size="14" font-weight="400" fill="#5d6470" text-anchor="start">exact timestamp for every</text><text x="1608" y="303" font-family="Geist" font-size="14" font-weight="400" fill="#5d6470" text-anchor="start">pause, filler and fast patch</text><rect x="1608" y="318" width="64.4" height="24" rx="5" fill="#d9480f" stroke="#d9480f"/><text x="1640.2" y="334.5" font-family="Geist Mono" font-size="11.5" font-weight="400" fill="#fff" text-anchor="middle">um 0:42</text><rect x="1678.4" y="318" width="86.0" height="24" rx="5" fill="none" stroke="#d9480f"/><text x="1721.4" y="334.5" font-family="Geist Mono" font-size="11.5" font-weight="400" fill="#d9480f" text-anchor="middle">pause 1:05</text><text x="1608" y="366" font-family="Geist" font-size="13" font-weight="400" fill="#5d6470" text-anchor="start">click one to hear that moment</text><rect x="1590" y="396" width="240" height="64" rx="10" fill="none" stroke="#8a919c" stroke-width="1.25" stroke-dasharray="6 5"/><text x="1608" y="428" font-family="Geist" font-size="18" font-weight="600" fill="#15181d" text-anchor="start">Your notes</text><text x="1608" y="448" font-family="Geist" font-size="14" font-weight="400" fill="#5d6470" text-anchor="start">planned: notes on any section</text><rect x="1590" y="476" width="240" height="64" rx="10" fill="#fcfcfd" stroke="#c7ccd4" stroke-width="1.25"/><text x="1608" y="508" font-family="Geist" font-size="18" font-weight="600" fill="#15181d" text-anchor="start">Scores + feedback</text><text x="1608" y="528" font-family="Geist" font-size="14" font-weight="400" fill="#5d6470" text-anchor="start">what to fix first</text><rect x="1590" y="556" width="240" height="150" rx="10" fill="none" stroke="#8a919c" stroke-width="1.25" stroke-dasharray="6 5"/><text x="1608" y="586" font-family="Geist" font-size="18" font-weight="600" fill="#15181d" text-anchor="start">Progress</text><text x="1812" y="586" font-family="Geist Mono" font-size="12.5" font-weight="600" fill="#d9480f" text-anchor="end">fillers -38%</text><text x="1608" y="607" font-family="Geist" font-size="13" font-weight="400" fill="#5d6470" text-anchor="start">planned: needs real login</text><line x1="1612" y1="676" x2="1812" y2="676" stroke="#c7ccd4"/><polyline points="1626,666 1710,648 1794,626" fill="none" stroke="#d9480f" stroke-width="2.4"/><circle cx="1626" cy="666" r="4.5" fill="#d9480f"/><text x="1626" y="694" font-family="Geist Mono" font-size="11.5" font-weight="400" fill="#5d6470" text-anchor="middle">Try 1</text><circle cx="1710" cy="648" r="4.5" fill="#d9480f"/><text x="1710" y="694" font-family="Geist Mono" font-size="11.5" font-weight="400" fill="#5d6470" text-anchor="middle">Try 2</text><circle cx="1794" cy="626" r="4.5" fill="#d9480f"/><text x="1794" y="694" font-family="Geist Mono" font-size="11.5" font-weight="400" fill="#5d6470" text-anchor="middle">Try 3</text><path d="M1542,602 L1566,602 L1566,305 L1586,305" fill="none" stroke="#8a919c" stroke-width="1.6" marker-end="url(#ah)"/><path d="M1566,428 L1586,428" fill="none" stroke="#8a919c" stroke-width="1.6" marker-end="url(#ah)"/><path d="M1566,508 L1586,508" fill="none" stroke="#8a919c" stroke-width="1.6" marker-end="url(#ah)"/><path d="M1566,602 L1566,631 L1586,631" fill="none" stroke="#8a919c" stroke-width="1.6" marker-end="url(#ah)"/><path d="M1710,706 L1710,742 L190,742 L190,514" fill="none" stroke="#d9480f" stroke-width="2.2" stroke-dasharray="7 6" marker-end="url(#ah-accent)"/><rect x="880" y="726" width="160" height="32" rx="16" fill="#eceef1"/><text x="960" y="748" font-family="Geist" font-size="15" font-weight="600" fill="#d9480f" text-anchor="middle">practice again</text><text x="90" y="806" font-family="Geist" font-size="18" font-weight="600" fill="#15181d" text-anchor="start">Stretch goals</text><text x="90" y="830" font-family="Geist" font-size="14" font-weight="400" fill="#5d6470" text-anchor="start">if the core app is stable</text><text x="90" y="854" font-family="Geist" font-size="14" font-weight="400" fill="#5d6470" text-anchor="start">dashed = not built yet</text><rect x="338" y="780" width="284" height="96" rx="10" fill="none" stroke="#8a919c" stroke-width="1.25" stroke-dasharray="6 5"/><text x="356" y="810" font-family="Geist" font-size="16" font-weight="600" fill="#15181d" text-anchor="start">Volume tracker</text><text x="356" y="834" font-family="Geist" font-size="14" font-weight="400" fill="#5d6470" text-anchor="start">how loud you are, and</text><text x="356" y="854" font-family="Geist" font-size="14" font-weight="400" fill="#5d6470" text-anchor="start">where you trail off</text><rect x="640" y="780" width="284" height="96" rx="10" fill="none" stroke="#8a919c" stroke-width="1.25" stroke-dasharray="6 5"/><text x="658" y="810" font-family="Geist" font-size="16" font-weight="600" fill="#15181d" text-anchor="start">Tone + pitch</text><text x="658" y="834" font-family="Geist" font-size="14" font-weight="400" fill="#5d6470" text-anchor="start">flags flat, monotone</text><text x="658" y="854" font-family="Geist" font-size="14" font-weight="400" fill="#5d6470" text-anchor="start">stretches</text><rect x="942" y="780" width="284" height="96" rx="10" fill="none" stroke="#8a919c" stroke-width="1.25" stroke-dasharray="6 5"/><text x="960" y="810" font-family="Geist" font-size="16" font-weight="600" fill="#15181d" text-anchor="start">Speech clarity</text><text x="960" y="834" font-family="Geist" font-size="14" font-weight="400" fill="#5d6470" text-anchor="start">rushed or mumbled</text><text x="960" y="854" font-family="Geist" font-size="14" font-weight="400" fill="#5d6470" text-anchor="start">words</text><rect x="1244" y="780" width="284" height="96" rx="10" fill="none" stroke="#8a919c" stroke-width="1.25" stroke-dasharray="6 5"/><text x="1262" y="810" font-family="Geist" font-size="16" font-weight="600" fill="#15181d" text-anchor="start">Practice plans</text><text x="1262" y="834" font-family="Geist" font-size="14" font-weight="400" fill="#5d6470" text-anchor="start">AI plans your next run</text><text x="1262" y="854" font-family="Geist" font-size="14" font-weight="400" fill="#5d6470" text-anchor="start">from past sessions</text><rect x="1546" y="780" width="284" height="96" rx="10" fill="none" stroke="#8a919c" stroke-width="1.25" stroke-dasharray="6 5"/><text x="1564" y="810" font-family="Geist" font-size="16" font-weight="600" fill="#15181d" text-anchor="start">Video analysis</text><text x="1564" y="834" font-family="Geist" font-size="14" font-weight="400" fill="#5d6470" text-anchor="start">eye contact and body</text><text x="1564" y="854" font-family="Geist" font-size="14" font-weight="400" fill="#5d6470" text-anchor="start">language (future)</text><line x1="90" y1="912" x2="1830" y2="912" stroke="#c7ccd4" stroke-width="1"/><text x="90" y="950" font-family="Geist" font-size="15" font-weight="600" fill="#15181d" text-anchor="start">If a step fails</text><text x="90" y="976" font-family="Geist" font-size="14.5" font-weight="400" fill="#5d6470" text-anchor="start">Status goes UPLOADED, PROCESSING, then FAILED</text><text x="90" y="998" font-family="Geist" font-size="14.5" font-weight="400" fill="#5d6470" text-anchor="start">with the stage name. Logs go to CloudWatch.</text><text x="700" y="950" font-family="Geist" font-size="15" font-weight="600" fill="#15181d" text-anchor="start">If AI feedback is off</text><text x="700" y="976" font-family="Geist" font-size="14.5" font-weight="400" fill="#5d6470" text-anchor="start">Transcript and scores still show.</text><text x="700" y="998" font-family="Geist" font-size="14.5" font-weight="400" fill="#5d6470" text-anchor="start">When on, it retries 3 times, then FAILED.</text><text x="1260" y="950" font-family="Geist" font-size="15" font-weight="600" fill="#15181d" text-anchor="start">Access</text><text x="1260" y="976" font-family="Geist" font-size="14.5" font-weight="400" fill="#5d6470" text-anchor="start">IAM gives each service only the</text><text x="1260" y="998" font-family="Geist" font-size="14.5" font-weight="400" fill="#5d6470" text-anchor="start">permissions it needs.</text>
 </svg></body></html>
